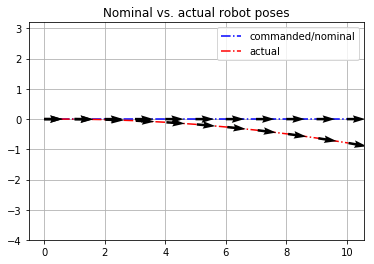
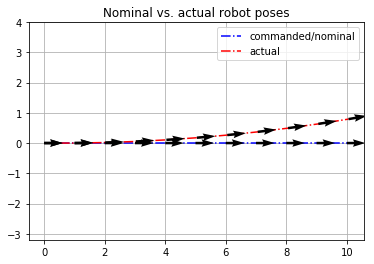
fixed rotation direction - now safe

diff --git a/hw1/sol1.tex b/hw1/sol1.tex
@@ -384,7 +384,7 @@ Commanded:
 \begin{gather}
 x^c_{k+1} = x_k + \begin{pmatrix} 1 \\ 0 \end{pmatrix} \\
 R^c_{k+1} = R^c_k \\
-\prescript{k+1}{k}T^{(commanded)} = \begin{pmatrix}
+\prescript{k}{k+1}T^{(commanded)} = \begin{pmatrix}
 I & \begin{pmatrix}
 1 \\ 0
 \end{pmatrix} 
@@ -394,80 +394,80 @@ Actual:
 \begin{gather}
 	x^a_{k+1} = x_k + \begin{pmatrix} 1.01 \\ 0 \end{pmatrix} \\
 	R^a_{k+1} = R(\theta = 1^{\circ}) \cdot R^c_k \\
-	\prescript{k+1}{k}T^{(actual)} = \begin{pmatrix}
+	\prescript{k}{k+1}T^{(actual)} = \begin{pmatrix}
 	R(\theta^{\circ}) & \begin{pmatrix}
 	1.01 \\ 0
 	\end{pmatrix} 
 	\end{pmatrix}
 \end{gather}
 
-
-\begin{Verbatim}[commandchars=\\\{\}]
-{\color{incolor}In [{\color{incolor}121}]:} \PY{o}{\PYZpc{}}\PY{k}{matplotlib} inline
-
-\PY{k+kn}{import} \PY{n+nn}{matplotlib}\PY{n+nn}{.}\PY{n+nn}{pyplot} \PY{k}{as} \PY{n+nn}{plt}
-\PY{k+kn}{from} \PY{n+nn}{copy} \PY{k}{import} \PY{n}{deepcopy} 
-
-\PY{k}{def} \PY{n+nf}{rotation2}\PY{p}{(}\PY{n}{theta}\PY{p}{)}\PY{p}{:} 
-\PY{k}{return} \PY{n}{np}\PY{o}{.}\PY{n}{mat}\PY{p}{(}\PY{p}{[}\PY{p}{[}\PY{n}{cos}\PY{p}{(}\PY{n}{theta}\PY{p}{)}\PY{p}{,}\PY{n}{sin}\PY{p}{(}\PY{n}{theta}\PY{p}{)}\PY{p}{]}\PY{p}{,}
-\PY{p}{[}\PY{o}{\PYZhy{}}\PY{n}{sin}\PY{p}{(}\PY{n}{theta}\PY{p}{)}\PY{p}{,}\PY{n}{cos}\PY{p}{(}\PY{n}{theta}\PY{p}{)}\PY{p}{]}\PY{p}{]}\PY{p}{)}\PY{p}{;} 
-
-\PY{k}{def} \PY{n+nf}{rot2angle}\PY{p}{(}\PY{n}{R}\PY{p}{)}\PY{p}{:}
-\PY{k}{return} \PY{n}{atan2}\PY{p}{(}\PY{n}{R}\PY{p}{[}\PY{l+m+mi}{0}\PY{p}{,} \PY{l+m+mi}{1}\PY{p}{]}\PY{p}{,} \PY{n}{R}\PY{p}{[}\PY{l+m+mi}{1}\PY{p}{,} \PY{l+m+mi}{1}\PY{p}{]}\PY{p}{)}\PY{p}{;} 
-
-\PY{n}{Tc} \PY{o}{=} \PY{n}{np}\PY{o}{.}\PY{n}{concatenate}\PY{p}{(}\PY{p}{(}\PY{n}{np}\PY{o}{.}\PY{n}{identity}\PY{p}{(}\PY{l+m+mi}{2}\PY{p}{)}\PY{p}{,} \PY{n}{np}\PY{o}{.}\PY{n}{mat}\PY{p}{(}\PY{p}{[}\PY{p}{[}\PY{l+m+mi}{1}\PY{p}{]}\PY{p}{,}\PY{p}{[}\PY{l+m+mi}{0}\PY{p}{]}\PY{p}{]}\PY{p}{)}\PY{p}{)}\PY{p}{,} \PY{n}{axis}\PY{o}{=}\PY{l+m+mi}{1}\PY{p}{)}\PY{p}{;} 
-
-\PY{n}{dtheta} \PY{o}{=} \PY{n}{pi}\PY{o}{/}\PY{l+m+mi}{180}\PY{p}{;}
-\PY{n}{Ta} \PY{o}{=} \PY{n}{np}\PY{o}{.}\PY{n}{concatenate}\PY{p}{(}\PY{p}{(}\PY{n}{rotation2}\PY{p}{(}\PY{n}{dtheta}\PY{p}{)}\PY{p}{,} \PY{n}{np}\PY{o}{.}\PY{n}{mat}\PY{p}{(}\PY{p}{[}\PY{p}{[}\PY{l+m+mf}{1.01}\PY{p}{]}\PY{p}{,}\PY{p}{[}\PY{l+m+mi}{0}\PY{p}{]}\PY{p}{]}\PY{p}{)}\PY{p}{)}\PY{p}{,} \PY{n}{axis}\PY{o}{=}\PY{l+m+mi}{1}\PY{p}{)}\PY{p}{;} 
-
-\PY{c+c1}{\PYZsh{} Initial pose}
-\PY{n}{origin} \PY{o}{=} \PY{n}{np}\PY{o}{.}\PY{n}{mat}\PY{p}{(}\PY{p}{[}\PY{p}{[}\PY{l+m+mi}{0}\PY{p}{,}\PY{l+m+mi}{0}\PY{p}{]}\PY{p}{]}\PY{p}{)}\PY{o}{.}\PY{n}{T}\PY{p}{;}
-\PY{n}{orientation} \PY{o}{=} \PY{n}{np}\PY{o}{.}\PY{n}{mat}\PY{p}{(}\PY{p}{[}\PY{p}{[}\PY{l+m+mi}{1}\PY{p}{,} \PY{l+m+mi}{0}\PY{p}{]}\PY{p}{]}\PY{p}{)}\PY{o}{.}\PY{n}{T}\PY{p}{;} 
-\PY{n}{Ti} \PY{o}{=} \PY{n}{np}\PY{o}{.}\PY{n}{concatenate}\PY{p}{(}\PY{p}{(}\PY{n}{np}\PY{o}{.}\PY{n}{identity}\PY{p}{(}\PY{l+m+mi}{2}\PY{p}{)}\PY{p}{,} \PY{n}{np}\PY{o}{.}\PY{n}{mat}\PY{p}{(}\PY{p}{[}\PY{p}{[}\PY{l+m+mi}{0}\PY{p}{]}\PY{p}{,}\PY{p}{[}\PY{l+m+mi}{0}\PY{p}{]}\PY{p}{]}\PY{p}{)}\PY{p}{)}\PY{p}{,} \PY{n}{axis}\PY{o}{=}\PY{l+m+mi}{1}\PY{p}{)}\PY{p}{;} 
-
-\PY{c+c1}{\PYZsh{} Lists hold nominal and actual pose history}
-\PY{n}{T1} \PY{o}{=} \PY{p}{[}\PY{p}{\PYZob{}}\PY{l+s+s2}{\PYZdq{}}\PY{l+s+s2}{T}\PY{l+s+s2}{\PYZdq{}} \PY{p}{:} \PY{n}{Ti}\PY{p}{,} \PY{l+s+s2}{\PYZdq{}}\PY{l+s+s2}{origin}\PY{l+s+s2}{\PYZdq{}} \PY{p}{:} \PY{n}{origin}\PY{p}{,} \PY{l+s+s2}{\PYZdq{}}\PY{l+s+s2}{orientation}\PY{l+s+s2}{\PYZdq{}} \PY{p}{:} \PY{n}{orientation}\PY{p}{\PYZcb{}}\PY{p}{]}\PY{p}{;} 
-\PY{n}{T2} \PY{o}{=} \PY{n}{deepcopy}\PY{p}{(}\PY{n}{T1}\PY{p}{)}\PY{p}{;} 
-\PY{k}{for} \PY{n}{ii} \PY{o+ow}{in} \PY{n+nb}{range}\PY{p}{(}\PY{l+m+mi}{10}\PY{p}{)}\PY{p}{:}
-\PY{c+c1}{\PYZsh{} commanded}
-\PY{n}{Tk} \PY{o}{=} \PY{n}{Tc}\PY{o}{.}\PY{n}{dot}\PY{p}{(}\PY{n}{np}\PY{o}{.}\PY{n}{vstack}\PY{p}{(}\PY{p}{(}\PY{n}{T1}\PY{p}{[}\PY{o}{\PYZhy{}}\PY{l+m+mi}{1}\PY{p}{]}\PY{p}{[}\PY{l+s+s1}{\PYZsq{}}\PY{l+s+s1}{T}\PY{l+s+s1}{\PYZsq{}}\PY{p}{]}\PY{p}{,} \PY{p}{[}\PY{l+m+mi}{0}\PY{p}{,} \PY{l+m+mi}{0}\PY{p}{,} \PY{l+m+mi}{1}\PY{p}{]}\PY{p}{)}\PY{p}{)}\PY{p}{)}\PY{p}{;} 
-\PY{n}{nominal\PYZus{}origin} \PY{o}{=} \PY{n}{Tk}\PY{p}{[}\PY{p}{:}\PY{p}{,}\PY{o}{\PYZhy{}}\PY{l+m+mi}{1}\PY{p}{]}\PY{p}{;} 
-\PY{n}{Rk} \PY{o}{=} \PY{n}{Tk}\PY{p}{[}\PY{l+m+mi}{0}\PY{p}{:}\PY{l+m+mi}{2}\PY{p}{,}\PY{l+m+mi}{0}\PY{p}{:}\PY{l+m+mi}{2}\PY{p}{]}\PY{p}{;} 
-\PY{n}{nominal\PYZus{}orientation} \PY{o}{=} \PY{n}{Rk}\PY{o}{.}\PY{n}{dot}\PY{p}{(}\PY{n}{orientation}\PY{p}{)}\PY{p}{;}    
-\PY{n}{T1}\PY{o}{.}\PY{n}{append}\PY{p}{(}\PY{p}{\PYZob{}}\PY{l+s+s2}{\PYZdq{}}\PY{l+s+s2}{T}\PY{l+s+s2}{\PYZdq{}} \PY{p}{:} \PY{n}{Tk}\PY{p}{,} \PY{l+s+s2}{\PYZdq{}}\PY{l+s+s2}{origin}\PY{l+s+s2}{\PYZdq{}} \PY{p}{:} \PY{n}{nominal\PYZus{}origin}\PY{p}{,} \PY{l+s+s2}{\PYZdq{}}\PY{l+s+s2}{orientation}\PY{l+s+s2}{\PYZdq{}} \PY{p}{:} \PY{n}{nominal\PYZus{}orientation}\PY{p}{\PYZcb{}}\PY{p}{)}
-
-\PY{c+c1}{\PYZsh{} actual}
-\PY{n}{Tk} \PY{o}{=} \PY{n}{Ta}\PY{o}{.}\PY{n}{dot}\PY{p}{(}\PY{n}{np}\PY{o}{.}\PY{n}{vstack}\PY{p}{(}\PY{p}{(}\PY{n}{T2}\PY{p}{[}\PY{o}{\PYZhy{}}\PY{l+m+mi}{1}\PY{p}{]}\PY{p}{[}\PY{l+s+s1}{\PYZsq{}}\PY{l+s+s1}{T}\PY{l+s+s1}{\PYZsq{}}\PY{p}{]}\PY{p}{,} \PY{p}{[}\PY{l+m+mi}{0}\PY{p}{,} \PY{l+m+mi}{0}\PY{p}{,} \PY{l+m+mi}{1}\PY{p}{]}\PY{p}{)}\PY{p}{)}\PY{p}{)}\PY{p}{;} 
-\PY{n}{actual\PYZus{}origin} \PY{o}{=} \PY{n}{Tk}\PY{p}{[}\PY{p}{:}\PY{p}{,}\PY{o}{\PYZhy{}}\PY{l+m+mi}{1}\PY{p}{]}\PY{p}{;} 
-\PY{n}{Rk} \PY{o}{=} \PY{n}{Tk}\PY{p}{[}\PY{l+m+mi}{0}\PY{p}{:}\PY{l+m+mi}{2}\PY{p}{,}\PY{l+m+mi}{0}\PY{p}{:}\PY{l+m+mi}{2}\PY{p}{]}\PY{p}{;} 
-\PY{n}{actual\PYZus{}orientation} \PY{o}{=} \PY{n}{Rk}\PY{o}{.}\PY{n}{dot}\PY{p}{(}\PY{n}{orientation}\PY{p}{)}\PY{p}{;}  
-\PY{n}{T2}\PY{o}{.}\PY{n}{append}\PY{p}{(}\PY{p}{\PYZob{}}\PY{l+s+s2}{\PYZdq{}}\PY{l+s+s2}{T}\PY{l+s+s2}{\PYZdq{}} \PY{p}{:} \PY{n}{Tk}\PY{p}{,} \PY{l+s+s2}{\PYZdq{}}\PY{l+s+s2}{origin}\PY{l+s+s2}{\PYZdq{}} \PY{p}{:} \PY{n}{actual\PYZus{}origin}\PY{p}{,} \PY{l+s+s2}{\PYZdq{}}\PY{l+s+s2}{orientation}\PY{l+s+s2}{\PYZdq{}} \PY{p}{:} \PY{n}{actual\PYZus{}orientation}\PY{p}{\PYZcb{}}\PY{p}{)}
-
-\PY{k}{def} \PY{n+nf}{disp\PYZus{}track}\PY{p}{(}\PY{n}{locations}\PY{p}{,} \PY{n}{orientations}\PY{p}{,} \PY{n}{color}\PY{o}{=}\PY{l+s+s1}{\PYZsq{}}\PY{l+s+s1}{b}\PY{l+s+s1}{\PYZsq{}}\PY{p}{)}\PY{p}{:}
-\PY{n}{x} \PY{o}{=} \PY{p}{[}\PY{n}{o}\PY{p}{[}\PY{l+m+mi}{0}\PY{p}{]}\PY{o}{.}\PY{n}{item}\PY{p}{(}\PY{l+m+mi}{0}\PY{p}{)} \PY{k}{for} \PY{n}{o} \PY{o+ow}{in} \PY{n}{locations}\PY{p}{]}
-\PY{n}{y} \PY{o}{=} \PY{p}{[}\PY{n}{o}\PY{p}{[}\PY{l+m+mi}{1}\PY{p}{]}\PY{o}{.}\PY{n}{item}\PY{p}{(}\PY{l+m+mi}{0}\PY{p}{)} \PY{k}{for} \PY{n}{o} \PY{o+ow}{in} \PY{n}{locations}\PY{p}{]}
-\PY{n}{u} \PY{o}{=} \PY{p}{[}\PY{n}{o}\PY{p}{[}\PY{l+m+mi}{0}\PY{p}{]}\PY{o}{.}\PY{n}{item}\PY{p}{(}\PY{l+m+mi}{0}\PY{p}{)} \PY{k}{for} \PY{n}{o} \PY{o+ow}{in} \PY{n}{orientations}\PY{p}{]}
-\PY{n}{v} \PY{o}{=} \PY{p}{[}\PY{n}{o}\PY{p}{[}\PY{l+m+mi}{1}\PY{p}{]}\PY{o}{.}\PY{n}{item}\PY{p}{(}\PY{l+m+mi}{0}\PY{p}{)} \PY{k}{for} \PY{n}{o} \PY{o+ow}{in} \PY{n}{orientations}\PY{p}{]}
-\PY{n}{plt}\PY{o}{.}\PY{n}{plot}\PY{p}{(}\PY{n}{x}\PY{p}{,} \PY{n}{y}\PY{p}{,} \PY{l+s+s1}{\PYZsq{}}\PY{l+s+s1}{\PYZhy{}.}\PY{l+s+s1}{\PYZsq{}}\PY{p}{,} \PY{n}{color}\PY{o}{=}\PY{n}{color}\PY{p}{)}
-\PY{n}{plt}\PY{o}{.}\PY{n}{quiver}\PY{p}{(}\PY{n}{x}\PY{p}{,} \PY{n}{y}\PY{p}{,} \PY{n}{u}\PY{p}{,} \PY{n}{v}\PY{p}{,} \PY{n}{color}\PY{o}{=}\PY{l+s+s1}{\PYZsq{}}\PY{l+s+s1}{k}\PY{l+s+s1}{\PYZsq{}}\PY{p}{,}\PY{n}{zorder}\PY{o}{=}\PY{l+m+mi}{10}\PY{p}{)}
-
-\PY{n}{plt}\PY{o}{.}\PY{n}{figure}\PY{p}{(}\PY{p}{)}
-
-\PY{n}{Pc} \PY{o}{=} \PY{p}{[}\PY{n}{P}\PY{p}{[}\PY{l+s+s1}{\PYZsq{}}\PY{l+s+s1}{origin}\PY{l+s+s1}{\PYZsq{}}\PY{p}{]} \PY{k}{for} \PY{n}{P} \PY{o+ow}{in} \PY{n}{T1}\PY{p}{]}
-\PY{n}{Uc} \PY{o}{=} \PY{p}{[}\PY{n}{P}\PY{p}{[}\PY{l+s+s1}{\PYZsq{}}\PY{l+s+s1}{orientation}\PY{l+s+s1}{\PYZsq{}}\PY{p}{]} \PY{k}{for} \PY{n}{P} \PY{o+ow}{in} \PY{n}{T1}\PY{p}{]}
-\PY{n}{disp\PYZus{}track}\PY{p}{(}\PY{n}{Pc}\PY{p}{,} \PY{n}{Uc}\PY{p}{)}
-
-\PY{n}{Pa} \PY{o}{=} \PY{p}{[}\PY{n}{P}\PY{p}{[}\PY{l+s+s1}{\PYZsq{}}\PY{l+s+s1}{origin}\PY{l+s+s1}{\PYZsq{}}\PY{p}{]} \PY{k}{for} \PY{n}{P} \PY{o+ow}{in} \PY{n}{T2}\PY{p}{]}
-\PY{n}{Ua} \PY{o}{=} \PY{p}{[}\PY{n}{P}\PY{p}{[}\PY{l+s+s1}{\PYZsq{}}\PY{l+s+s1}{orientation}\PY{l+s+s1}{\PYZsq{}}\PY{p}{]} \PY{k}{for} \PY{n}{P} \PY{o+ow}{in} \PY{n}{T2}\PY{p}{]}
-\PY{n}{disp\PYZus{}track}\PY{p}{(}\PY{n}{Pa}\PY{p}{,} \PY{n}{Ua}\PY{p}{,} \PY{l+s+s1}{\PYZsq{}}\PY{l+s+s1}{r}\PY{l+s+s1}{\PYZsq{}}\PY{p}{)}
-
-\PY{n}{plt}\PY{o}{.}\PY{n}{grid}\PY{p}{(}\PY{k+kc}{True}\PY{p}{)}
-\PY{n}{plt}\PY{o}{.}\PY{n}{axis}\PY{p}{(}\PY{l+s+s1}{\PYZsq{}}\PY{l+s+s1}{equal}\PY{l+s+s1}{\PYZsq{}}\PY{p}{)}\PY{p}{;} 
-\PY{n}{plt}\PY{o}{.}\PY{n}{legend}\PY{p}{(}\PY{p}{[}\PY{l+s+s1}{\PYZsq{}}\PY{l+s+s1}{commanded/nominal}\PY{l+s+s1}{\PYZsq{}}\PY{p}{,} \PY{l+s+s1}{\PYZsq{}}\PY{l+s+s1}{actual}\PY{l+s+s1}{\PYZsq{}}\PY{p}{]}\PY{p}{)}\PY{p}{;} 
-\PY{n}{plt}\PY{o}{.}\PY{n}{title}\PY{p}{(}\PY{l+s+s1}{\PYZsq{}}\PY{l+s+s1}{Nominal vs. actual robot poses}\PY{l+s+s1}{\PYZsq{}}\PY{p}{)}\PY{p}{;} 
-
-\PY{n+nb}{print}\PY{p}{(}\PY{l+s+s1}{\PYZsq{}}\PY{l+s+s1}{Location difference: }\PY{l+s+s1}{\PYZsq{}} \PY{o}{+} \PY{n+nb}{str}\PY{p}{(}\PY{n}{norm}\PY{p}{(}\PY{n}{Pc}\PY{p}{[}\PY{o}{\PYZhy{}}\PY{l+m+mi}{1}\PY{p}{]}\PY{o}{\PYZhy{}}\PY{n}{Pa}\PY{p}{[}\PY{o}{\PYZhy{}}\PY{l+m+mi}{1}\PY{p}{]}\PY{p}{)}\PY{p}{)} \PY{o}{+} \PY{l+s+s1}{\PYZsq{}}\PY{l+s+s1}{ m}\PY{l+s+s1}{\PYZsq{}}\PY{p}{)}
-\PY{n+nb}{print}\PY{p}{(}\PY{l+s+s1}{\PYZsq{}}\PY{l+s+s1}{Orientation difference: }\PY{l+s+s1}{\PYZsq{}} \PY{o}{+} \PY{n+nb}{str}\PY{p}{(}\PY{n}{degrees}\PY{p}{(}\PY{n}{acos}\PY{p}{(}\PY{n}{Ua}\PY{p}{[}\PY{o}{\PYZhy{}}\PY{l+m+mi}{1}\PY{p}{]}\PY{o}{.}\PY{n}{T}\PY{o}{.}\PY{n}{dot}\PY{p}{(}\PY{n}{Uc}\PY{p}{[}\PY{o}{\PYZhy{}}\PY{l+m+mi}{1}\PY{p}{]}\PY{p}{)}\PY{p}{)}\PY{p}{)}\PY{p}{)} \PY{o}{+} \PY{l+s+sa}{u}\PY{l+s+s1}{\PYZsq{}}\PY{l+s+se}{\PYZbs{}N\PYZob{}DEGREE SIGN\PYZcb{}}\PY{l+s+s1}{\PYZsq{}}\PY{p}{)}
+  \begin{Verbatim}[commandchars=\\\{\}]
+  {\color{incolor}In [{\color{incolor}122}]:} \PY{o}{\PYZpc{}}\PY{k}{matplotlib} inline
+  
+  \PY{k+kn}{import} \PY{n+nn}{matplotlib}\PY{n+nn}{.}\PY{n+nn}{pyplot} \PY{k}{as} \PY{n+nn}{plt}
+  \PY{k+kn}{from} \PY{n+nn}{copy} \PY{k}{import} \PY{n}{deepcopy} 
+  
+  \PY{k}{def} \PY{n+nf}{rotation2}\PY{p}{(}\PY{n}{theta}\PY{p}{)}\PY{p}{:} 
+  \PY{c+c1}{\PYZsh{} rotates by -theta}
+  \PY{k}{return} \PY{n}{np}\PY{o}{.}\PY{n}{mat}\PY{p}{(}\PY{p}{[}\PY{p}{[}\PY{n}{cos}\PY{p}{(}\PY{n}{theta}\PY{p}{)}\PY{p}{,}\PY{n}{sin}\PY{p}{(}\PY{n}{theta}\PY{p}{)}\PY{p}{]}\PY{p}{,}
+  \PY{p}{[}\PY{o}{\PYZhy{}}\PY{n}{sin}\PY{p}{(}\PY{n}{theta}\PY{p}{)}\PY{p}{,}\PY{n}{cos}\PY{p}{(}\PY{n}{theta}\PY{p}{)}\PY{p}{]}\PY{p}{]}\PY{p}{)}\PY{p}{;} 
+  
+  \PY{k}{def} \PY{n+nf}{rot2angle}\PY{p}{(}\PY{n}{R}\PY{p}{)}\PY{p}{:}
+  \PY{k}{return} \PY{n}{atan2}\PY{p}{(}\PY{n}{R}\PY{p}{[}\PY{l+m+mi}{0}\PY{p}{,} \PY{l+m+mi}{1}\PY{p}{]}\PY{p}{,} \PY{n}{R}\PY{p}{[}\PY{l+m+mi}{1}\PY{p}{,} \PY{l+m+mi}{1}\PY{p}{]}\PY{p}{)}\PY{p}{;} 
+  
+  \PY{n}{Tc} \PY{o}{=} \PY{n}{np}\PY{o}{.}\PY{n}{concatenate}\PY{p}{(}\PY{p}{(}\PY{n}{np}\PY{o}{.}\PY{n}{identity}\PY{p}{(}\PY{l+m+mi}{2}\PY{p}{)}\PY{p}{,} \PY{n}{np}\PY{o}{.}\PY{n}{mat}\PY{p}{(}\PY{p}{[}\PY{p}{[}\PY{l+m+mi}{1}\PY{p}{]}\PY{p}{,}\PY{p}{[}\PY{l+m+mi}{0}\PY{p}{]}\PY{p}{]}\PY{p}{)}\PY{p}{)}\PY{p}{,} \PY{n}{axis}\PY{o}{=}\PY{l+m+mi}{1}\PY{p}{)}\PY{p}{;} 
+  
+  \PY{n}{dtheta} \PY{o}{=} \PY{n}{pi}\PY{o}{/}\PY{l+m+mi}{180}\PY{p}{;}
+  \PY{n}{Ta} \PY{o}{=} \PY{n}{np}\PY{o}{.}\PY{n}{concatenate}\PY{p}{(}\PY{p}{(}\PY{n}{rotation2}\PY{p}{(}\PY{o}{\PYZhy{}}\PY{n}{dtheta}\PY{p}{)}\PY{p}{,} \PY{n}{np}\PY{o}{.}\PY{n}{mat}\PY{p}{(}\PY{p}{[}\PY{p}{[}\PY{l+m+mf}{1.01}\PY{p}{]}\PY{p}{,}\PY{p}{[}\PY{l+m+mi}{0}\PY{p}{]}\PY{p}{]}\PY{p}{)}\PY{p}{)}\PY{p}{,} \PY{n}{axis}\PY{o}{=}\PY{l+m+mi}{1}\PY{p}{)}\PY{p}{;} 
+  
+  \PY{c+c1}{\PYZsh{} Initial pose}
+  \PY{n}{origin} \PY{o}{=} \PY{n}{np}\PY{o}{.}\PY{n}{mat}\PY{p}{(}\PY{p}{[}\PY{p}{[}\PY{l+m+mi}{0}\PY{p}{,}\PY{l+m+mi}{0}\PY{p}{]}\PY{p}{]}\PY{p}{)}\PY{o}{.}\PY{n}{T}\PY{p}{;}
+  \PY{n}{orientation} \PY{o}{=} \PY{n}{np}\PY{o}{.}\PY{n}{mat}\PY{p}{(}\PY{p}{[}\PY{p}{[}\PY{l+m+mi}{1}\PY{p}{,} \PY{l+m+mi}{0}\PY{p}{]}\PY{p}{]}\PY{p}{)}\PY{o}{.}\PY{n}{T}\PY{p}{;} 
+  \PY{n}{Ti} \PY{o}{=} \PY{n}{np}\PY{o}{.}\PY{n}{concatenate}\PY{p}{(}\PY{p}{(}\PY{n}{np}\PY{o}{.}\PY{n}{identity}\PY{p}{(}\PY{l+m+mi}{2}\PY{p}{)}\PY{p}{,} \PY{n}{np}\PY{o}{.}\PY{n}{mat}\PY{p}{(}\PY{p}{[}\PY{p}{[}\PY{l+m+mi}{0}\PY{p}{]}\PY{p}{,}\PY{p}{[}\PY{l+m+mi}{0}\PY{p}{]}\PY{p}{]}\PY{p}{)}\PY{p}{)}\PY{p}{,} \PY{n}{axis}\PY{o}{=}\PY{l+m+mi}{1}\PY{p}{)}\PY{p}{;} 
+  
+  \PY{c+c1}{\PYZsh{} Lists hold nominal and actual pose history}
+  \PY{n}{T1} \PY{o}{=} \PY{p}{[}\PY{p}{\PYZob{}}\PY{l+s+s2}{\PYZdq{}}\PY{l+s+s2}{T}\PY{l+s+s2}{\PYZdq{}} \PY{p}{:} \PY{n}{Ti}\PY{p}{,} \PY{l+s+s2}{\PYZdq{}}\PY{l+s+s2}{origin}\PY{l+s+s2}{\PYZdq{}} \PY{p}{:} \PY{n}{origin}\PY{p}{,} \PY{l+s+s2}{\PYZdq{}}\PY{l+s+s2}{orientation}\PY{l+s+s2}{\PYZdq{}} \PY{p}{:} \PY{n}{orientation}\PY{p}{\PYZcb{}}\PY{p}{]}\PY{p}{;} 
+  \PY{n}{T2} \PY{o}{=} \PY{n}{deepcopy}\PY{p}{(}\PY{n}{T1}\PY{p}{)}\PY{p}{;} 
+  \PY{k}{for} \PY{n}{ii} \PY{o+ow}{in} \PY{n+nb}{range}\PY{p}{(}\PY{l+m+mi}{10}\PY{p}{)}\PY{p}{:}
+  \PY{c+c1}{\PYZsh{} commanded}
+  \PY{n}{Tk} \PY{o}{=} \PY{n}{Tc}\PY{o}{.}\PY{n}{dot}\PY{p}{(}\PY{n}{np}\PY{o}{.}\PY{n}{vstack}\PY{p}{(}\PY{p}{(}\PY{n}{T1}\PY{p}{[}\PY{o}{\PYZhy{}}\PY{l+m+mi}{1}\PY{p}{]}\PY{p}{[}\PY{l+s+s1}{\PYZsq{}}\PY{l+s+s1}{T}\PY{l+s+s1}{\PYZsq{}}\PY{p}{]}\PY{p}{,} \PY{p}{[}\PY{l+m+mi}{0}\PY{p}{,} \PY{l+m+mi}{0}\PY{p}{,} \PY{l+m+mi}{1}\PY{p}{]}\PY{p}{)}\PY{p}{)}\PY{p}{)}\PY{p}{;} 
+  \PY{n}{nominal\PYZus{}origin} \PY{o}{=} \PY{n}{Tk}\PY{p}{[}\PY{p}{:}\PY{p}{,}\PY{o}{\PYZhy{}}\PY{l+m+mi}{1}\PY{p}{]}\PY{p}{;} 
+  \PY{n}{Rk} \PY{o}{=} \PY{n}{Tk}\PY{p}{[}\PY{l+m+mi}{0}\PY{p}{:}\PY{l+m+mi}{2}\PY{p}{,}\PY{l+m+mi}{0}\PY{p}{:}\PY{l+m+mi}{2}\PY{p}{]}\PY{p}{;} 
+  \PY{n}{nominal\PYZus{}orientation} \PY{o}{=} \PY{n}{Rk}\PY{o}{.}\PY{n}{dot}\PY{p}{(}\PY{n}{orientation}\PY{p}{)}\PY{p}{;}    
+  \PY{n}{T1}\PY{o}{.}\PY{n}{append}\PY{p}{(}\PY{p}{\PYZob{}}\PY{l+s+s2}{\PYZdq{}}\PY{l+s+s2}{T}\PY{l+s+s2}{\PYZdq{}} \PY{p}{:} \PY{n}{Tk}\PY{p}{,} \PY{l+s+s2}{\PYZdq{}}\PY{l+s+s2}{origin}\PY{l+s+s2}{\PYZdq{}} \PY{p}{:} \PY{n}{nominal\PYZus{}origin}\PY{p}{,} \PY{l+s+s2}{\PYZdq{}}\PY{l+s+s2}{orientation}\PY{l+s+s2}{\PYZdq{}} \PY{p}{:} \PY{n}{nominal\PYZus{}orientation}\PY{p}{\PYZcb{}}\PY{p}{)}
+  
+  \PY{c+c1}{\PYZsh{} actual}
+  \PY{n}{Tk} \PY{o}{=} \PY{n}{Ta}\PY{o}{.}\PY{n}{dot}\PY{p}{(}\PY{n}{np}\PY{o}{.}\PY{n}{vstack}\PY{p}{(}\PY{p}{(}\PY{n}{T2}\PY{p}{[}\PY{o}{\PYZhy{}}\PY{l+m+mi}{1}\PY{p}{]}\PY{p}{[}\PY{l+s+s1}{\PYZsq{}}\PY{l+s+s1}{T}\PY{l+s+s1}{\PYZsq{}}\PY{p}{]}\PY{p}{,} \PY{p}{[}\PY{l+m+mi}{0}\PY{p}{,} \PY{l+m+mi}{0}\PY{p}{,} \PY{l+m+mi}{1}\PY{p}{]}\PY{p}{)}\PY{p}{)}\PY{p}{)}\PY{p}{;} 
+  \PY{n}{actual\PYZus{}origin} \PY{o}{=} \PY{n}{Tk}\PY{p}{[}\PY{p}{:}\PY{p}{,}\PY{o}{\PYZhy{}}\PY{l+m+mi}{1}\PY{p}{]}\PY{p}{;} 
+  \PY{n}{Rk} \PY{o}{=} \PY{n}{Tk}\PY{p}{[}\PY{l+m+mi}{0}\PY{p}{:}\PY{l+m+mi}{2}\PY{p}{,}\PY{l+m+mi}{0}\PY{p}{:}\PY{l+m+mi}{2}\PY{p}{]}\PY{p}{;} 
+  \PY{n}{actual\PYZus{}orientation} \PY{o}{=} \PY{n}{Rk}\PY{o}{.}\PY{n}{dot}\PY{p}{(}\PY{n}{orientation}\PY{p}{)}\PY{p}{;}  
+  \PY{n}{T2}\PY{o}{.}\PY{n}{append}\PY{p}{(}\PY{p}{\PYZob{}}\PY{l+s+s2}{\PYZdq{}}\PY{l+s+s2}{T}\PY{l+s+s2}{\PYZdq{}} \PY{p}{:} \PY{n}{Tk}\PY{p}{,} \PY{l+s+s2}{\PYZdq{}}\PY{l+s+s2}{origin}\PY{l+s+s2}{\PYZdq{}} \PY{p}{:} \PY{n}{actual\PYZus{}origin}\PY{p}{,} \PY{l+s+s2}{\PYZdq{}}\PY{l+s+s2}{orientation}\PY{l+s+s2}{\PYZdq{}} \PY{p}{:} \PY{n}{actual\PYZus{}orientation}\PY{p}{\PYZcb{}}\PY{p}{)}
+  
+  \PY{k}{def} \PY{n+nf}{disp\PYZus{}track}\PY{p}{(}\PY{n}{locations}\PY{p}{,} \PY{n}{orientations}\PY{p}{,} \PY{n}{color}\PY{o}{=}\PY{l+s+s1}{\PYZsq{}}\PY{l+s+s1}{b}\PY{l+s+s1}{\PYZsq{}}\PY{p}{)}\PY{p}{:}
+  \PY{n}{x} \PY{o}{=} \PY{p}{[}\PY{n}{o}\PY{p}{[}\PY{l+m+mi}{0}\PY{p}{]}\PY{o}{.}\PY{n}{item}\PY{p}{(}\PY{l+m+mi}{0}\PY{p}{)} \PY{k}{for} \PY{n}{o} \PY{o+ow}{in} \PY{n}{locations}\PY{p}{]}
+  \PY{n}{y} \PY{o}{=} \PY{p}{[}\PY{n}{o}\PY{p}{[}\PY{l+m+mi}{1}\PY{p}{]}\PY{o}{.}\PY{n}{item}\PY{p}{(}\PY{l+m+mi}{0}\PY{p}{)} \PY{k}{for} \PY{n}{o} \PY{o+ow}{in} \PY{n}{locations}\PY{p}{]}
+  \PY{n}{u} \PY{o}{=} \PY{p}{[}\PY{n}{o}\PY{p}{[}\PY{l+m+mi}{0}\PY{p}{]}\PY{o}{.}\PY{n}{item}\PY{p}{(}\PY{l+m+mi}{0}\PY{p}{)} \PY{k}{for} \PY{n}{o} \PY{o+ow}{in} \PY{n}{orientations}\PY{p}{]}
+  \PY{n}{v} \PY{o}{=} \PY{p}{[}\PY{n}{o}\PY{p}{[}\PY{l+m+mi}{1}\PY{p}{]}\PY{o}{.}\PY{n}{item}\PY{p}{(}\PY{l+m+mi}{0}\PY{p}{)} \PY{k}{for} \PY{n}{o} \PY{o+ow}{in} \PY{n}{orientations}\PY{p}{]}
+  \PY{n}{plt}\PY{o}{.}\PY{n}{plot}\PY{p}{(}\PY{n}{x}\PY{p}{,} \PY{n}{y}\PY{p}{,} \PY{l+s+s1}{\PYZsq{}}\PY{l+s+s1}{\PYZhy{}.}\PY{l+s+s1}{\PYZsq{}}\PY{p}{,} \PY{n}{color}\PY{o}{=}\PY{n}{color}\PY{p}{)}
+  \PY{n}{plt}\PY{o}{.}\PY{n}{quiver}\PY{p}{(}\PY{n}{x}\PY{p}{,} \PY{n}{y}\PY{p}{,} \PY{n}{u}\PY{p}{,} \PY{n}{v}\PY{p}{,} \PY{n}{color}\PY{o}{=}\PY{l+s+s1}{\PYZsq{}}\PY{l+s+s1}{k}\PY{l+s+s1}{\PYZsq{}}\PY{p}{,}\PY{n}{zorder}\PY{o}{=}\PY{l+m+mi}{10}\PY{p}{)}
+  
+  \PY{n}{plt}\PY{o}{.}\PY{n}{figure}\PY{p}{(}\PY{p}{)}
+  
+  \PY{n}{Pc} \PY{o}{=} \PY{p}{[}\PY{n}{P}\PY{p}{[}\PY{l+s+s1}{\PYZsq{}}\PY{l+s+s1}{origin}\PY{l+s+s1}{\PYZsq{}}\PY{p}{]} \PY{k}{for} \PY{n}{P} \PY{o+ow}{in} \PY{n}{T1}\PY{p}{]}
+  \PY{n}{Uc} \PY{o}{=} \PY{p}{[}\PY{n}{P}\PY{p}{[}\PY{l+s+s1}{\PYZsq{}}\PY{l+s+s1}{orientation}\PY{l+s+s1}{\PYZsq{}}\PY{p}{]} \PY{k}{for} \PY{n}{P} \PY{o+ow}{in} \PY{n}{T1}\PY{p}{]}
+  \PY{n}{disp\PYZus{}track}\PY{p}{(}\PY{n}{Pc}\PY{p}{,} \PY{n}{Uc}\PY{p}{)}
+  
+  \PY{n}{Pa} \PY{o}{=} \PY{p}{[}\PY{n}{P}\PY{p}{[}\PY{l+s+s1}{\PYZsq{}}\PY{l+s+s1}{origin}\PY{l+s+s1}{\PYZsq{}}\PY{p}{]} \PY{k}{for} \PY{n}{P} \PY{o+ow}{in} \PY{n}{T2}\PY{p}{]}
+  \PY{n}{Ua} \PY{o}{=} \PY{p}{[}\PY{n}{P}\PY{p}{[}\PY{l+s+s1}{\PYZsq{}}\PY{l+s+s1}{orientation}\PY{l+s+s1}{\PYZsq{}}\PY{p}{]} \PY{k}{for} \PY{n}{P} \PY{o+ow}{in} \PY{n}{T2}\PY{p}{]}
+  \PY{n}{disp\PYZus{}track}\PY{p}{(}\PY{n}{Pa}\PY{p}{,} \PY{n}{Ua}\PY{p}{,} \PY{l+s+s1}{\PYZsq{}}\PY{l+s+s1}{r}\PY{l+s+s1}{\PYZsq{}}\PY{p}{)}
+  
+  \PY{n}{plt}\PY{o}{.}\PY{n}{grid}\PY{p}{(}\PY{k+kc}{True}\PY{p}{)}
+  \PY{n}{plt}\PY{o}{.}\PY{n}{axis}\PY{p}{(}\PY{l+s+s1}{\PYZsq{}}\PY{l+s+s1}{equal}\PY{l+s+s1}{\PYZsq{}}\PY{p}{)}\PY{p}{;} 
+  \PY{n}{plt}\PY{o}{.}\PY{n}{legend}\PY{p}{(}\PY{p}{[}\PY{l+s+s1}{\PYZsq{}}\PY{l+s+s1}{commanded/nominal}\PY{l+s+s1}{\PYZsq{}}\PY{p}{,} \PY{l+s+s1}{\PYZsq{}}\PY{l+s+s1}{actual}\PY{l+s+s1}{\PYZsq{}}\PY{p}{]}\PY{p}{)}\PY{p}{;} 
+  \PY{n}{plt}\PY{o}{.}\PY{n}{title}\PY{p}{(}\PY{l+s+s1}{\PYZsq{}}\PY{l+s+s1}{Nominal vs. actual robot poses}\PY{l+s+s1}{\PYZsq{}}\PY{p}{)}\PY{p}{;} 
+  
+  \PY{n+nb}{print}\PY{p}{(}\PY{l+s+s1}{\PYZsq{}}\PY{l+s+s1}{Location difference: }\PY{l+s+s1}{\PYZsq{}} \PY{o}{+} \PY{n+nb}{str}\PY{p}{(}\PY{n}{norm}\PY{p}{(}\PY{n}{Pc}\PY{p}{[}\PY{o}{\PYZhy{}}\PY{l+m+mi}{1}\PY{p}{]}\PY{o}{\PYZhy{}}\PY{n}{Pa}\PY{p}{[}\PY{o}{\PYZhy{}}\PY{l+m+mi}{1}\PY{p}{]}\PY{p}{)}\PY{p}{)} \PY{o}{+} \PY{l+s+s1}{\PYZsq{}}\PY{l+s+s1}{ m}\PY{l+s+s1}{\PYZsq{}}\PY{p}{)}
+  \PY{n+nb}{print}\PY{p}{(}\PY{l+s+s1}{\PYZsq{}}\PY{l+s+s1}{Orientation difference: }\PY{l+s+s1}{\PYZsq{}} \PY{o}{+} \PY{n+nb}{str}\PY{p}{(}\PY{n}{degrees}\PY{p}{(}\PY{n}{acos}\PY{p}{(}\PY{n}{Ua}\PY{p}{[}\PY{o}{\PYZhy{}}\PY{l+m+mi}{1}\PY{p}{]}\PY{o}{.}\PY{n}{T}\PY{o}{.}\PY{n}{dot}\PY{p}{(}\PY{n}{Uc}\PY{p}{[}\PY{o}{\PYZhy{}}\PY{l+m+mi}{1}\PY{p}{]}\PY{p}{)}\PY{p}{)}\PY{p}{)}\PY{p}{)} \PY{o}{+} \PY{l+s+sa}{u}\PY{l+s+s1}{\PYZsq{}}\PY{l+s+se}{\PYZbs{}N\PYZob{}DEGREE SIGN\PYZcb{}}\PY{l+s+s1}{\PYZsq{}}\PY{p}{)}
 \end{Verbatim}
 
 

diff --git a/hw1/exported-notebook.tex b/hw1/exported-notebook.tex
@@ -431,7 +431,7 @@ R^a_{k+1} = R(1) \cdot R^c_k
 \end{Verbatim}
             
     \begin{Verbatim}[commandchars=\\\{\}]
-{\color{incolor}In [{\color{incolor}121}]:} \PY{o}{\PYZpc{}}\PY{k}{matplotlib} inline
+{\color{incolor}In [{\color{incolor}122}]:} \PY{o}{\PYZpc{}}\PY{k}{matplotlib} inline
           
           \PY{k+kn}{import} \PY{n+nn}{matplotlib}\PY{n+nn}{.}\PY{n+nn}{pyplot} \PY{k}{as} \PY{n+nn}{plt}
           \PY{k+kn}{from} \PY{n+nn}{copy} \PY{k}{import} \PY{n}{deepcopy} 
@@ -446,7 +446,7 @@ R^a_{k+1} = R(1) \cdot R^c_k
           \PY{n}{Tc} \PY{o}{=} \PY{n}{np}\PY{o}{.}\PY{n}{concatenate}\PY{p}{(}\PY{p}{(}\PY{n}{np}\PY{o}{.}\PY{n}{identity}\PY{p}{(}\PY{l+m+mi}{2}\PY{p}{)}\PY{p}{,} \PY{n}{np}\PY{o}{.}\PY{n}{mat}\PY{p}{(}\PY{p}{[}\PY{p}{[}\PY{l+m+mi}{1}\PY{p}{]}\PY{p}{,}\PY{p}{[}\PY{l+m+mi}{0}\PY{p}{]}\PY{p}{]}\PY{p}{)}\PY{p}{)}\PY{p}{,} \PY{n}{axis}\PY{o}{=}\PY{l+m+mi}{1}\PY{p}{)}\PY{p}{;} 
           
           \PY{n}{dtheta} \PY{o}{=} \PY{n}{pi}\PY{o}{/}\PY{l+m+mi}{180}\PY{p}{;}
-          \PY{n}{Ta} \PY{o}{=} \PY{n}{np}\PY{o}{.}\PY{n}{concatenate}\PY{p}{(}\PY{p}{(}\PY{n}{rotation2}\PY{p}{(}\PY{n}{dtheta}\PY{p}{)}\PY{p}{,} \PY{n}{np}\PY{o}{.}\PY{n}{mat}\PY{p}{(}\PY{p}{[}\PY{p}{[}\PY{l+m+mf}{1.01}\PY{p}{]}\PY{p}{,}\PY{p}{[}\PY{l+m+mi}{0}\PY{p}{]}\PY{p}{]}\PY{p}{)}\PY{p}{)}\PY{p}{,} \PY{n}{axis}\PY{o}{=}\PY{l+m+mi}{1}\PY{p}{)}\PY{p}{;} 
+          \PY{n}{Ta} \PY{o}{=} \PY{n}{np}\PY{o}{.}\PY{n}{concatenate}\PY{p}{(}\PY{p}{(}\PY{n}{rotation2}\PY{p}{(}\PY{o}{\PYZhy{}}\PY{n}{dtheta}\PY{p}{)}\PY{p}{,} \PY{n}{np}\PY{o}{.}\PY{n}{mat}\PY{p}{(}\PY{p}{[}\PY{p}{[}\PY{l+m+mf}{1.01}\PY{p}{]}\PY{p}{,}\PY{p}{[}\PY{l+m+mi}{0}\PY{p}{]}\PY{p}{]}\PY{p}{)}\PY{p}{)}\PY{p}{,} \PY{n}{axis}\PY{o}{=}\PY{l+m+mi}{1}\PY{p}{)}\PY{p}{;} 
           
           \PY{c+c1}{\PYZsh{} Initial pose}
           \PY{n}{origin} \PY{o}{=} \PY{n}{np}\PY{o}{.}\PY{n}{mat}\PY{p}{(}\PY{p}{[}\PY{p}{[}\PY{l+m+mi}{0}\PY{p}{,}\PY{l+m+mi}{0}\PY{p}{]}\PY{p}{]}\PY{p}{)}\PY{o}{.}\PY{n}{T}\PY{p}{;}
